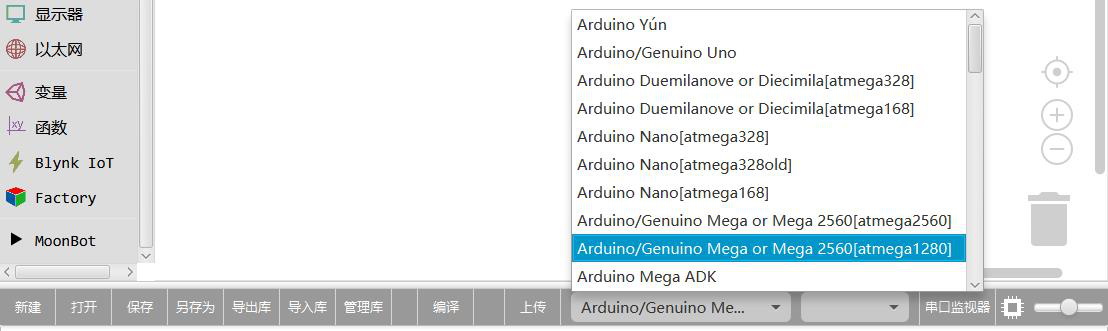
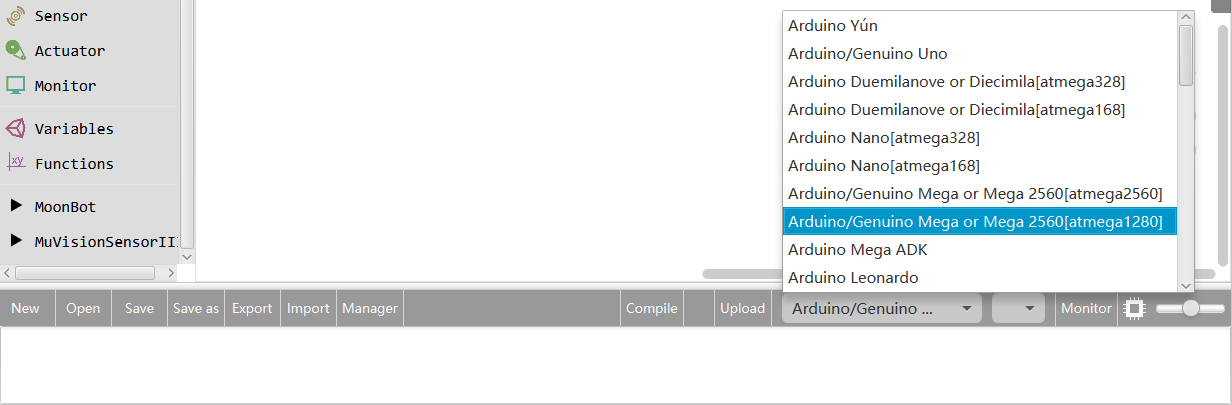
add components

diff --git a/MUVS3/MUVS3_Mixly/MUVS3_Mixly_Guide_en.md b/MUVS3/MUVS3_Mixly/MUVS3_Mixly_Guide_en.md
@@ -1,10 +1,11 @@
 # Import Mixly Library for MU Vision Sensor
 
-Open Mixly,click ‘Import’
+Open Mixly and choose controller.For example, choose Arduino Uno. 
+If you use MoonBot controller, choose Arduino Mega(atmega 1280) and choose the available COM port.
 
 ![](./images/MUVS3_Mixly_hardware.png)
 
-Locate the **MuVisionSensor3.xml** file , select and open it.
+Click ‘Import’.
 
 ![](./images/MUVS3_Mixly_import.png)
 

diff --git a/MoonBot/MoonBot_Structure/MoonMech_Guide_en.md b/MoonBot/MoonBot_Structure/MoonMech_Guide_en.md
@@ -27,6 +27,10 @@ Download pdf guide of MoonMech
 
 ## Program Examples
 
+Download MoonMech Mixly examples
+
+[MoonMech Examples](https://github.com/mu-opensource/Morpx-docs-en/raw/master/MoonBot/MoonBot_Structure/sources/Mixly_example_MoonMech.zip)
+
 ### Catch Ball
 
 This example shows how to catch ping-pong ball recognized by vision module.
